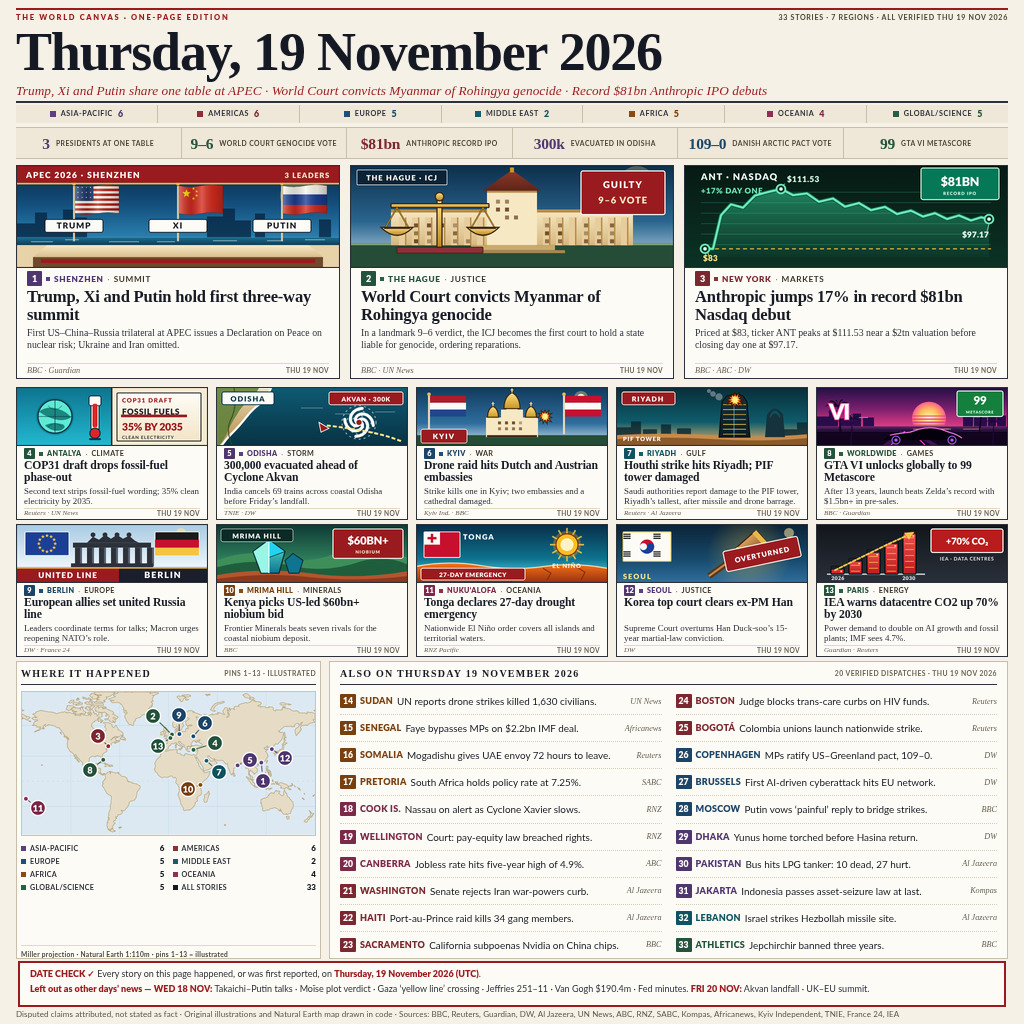
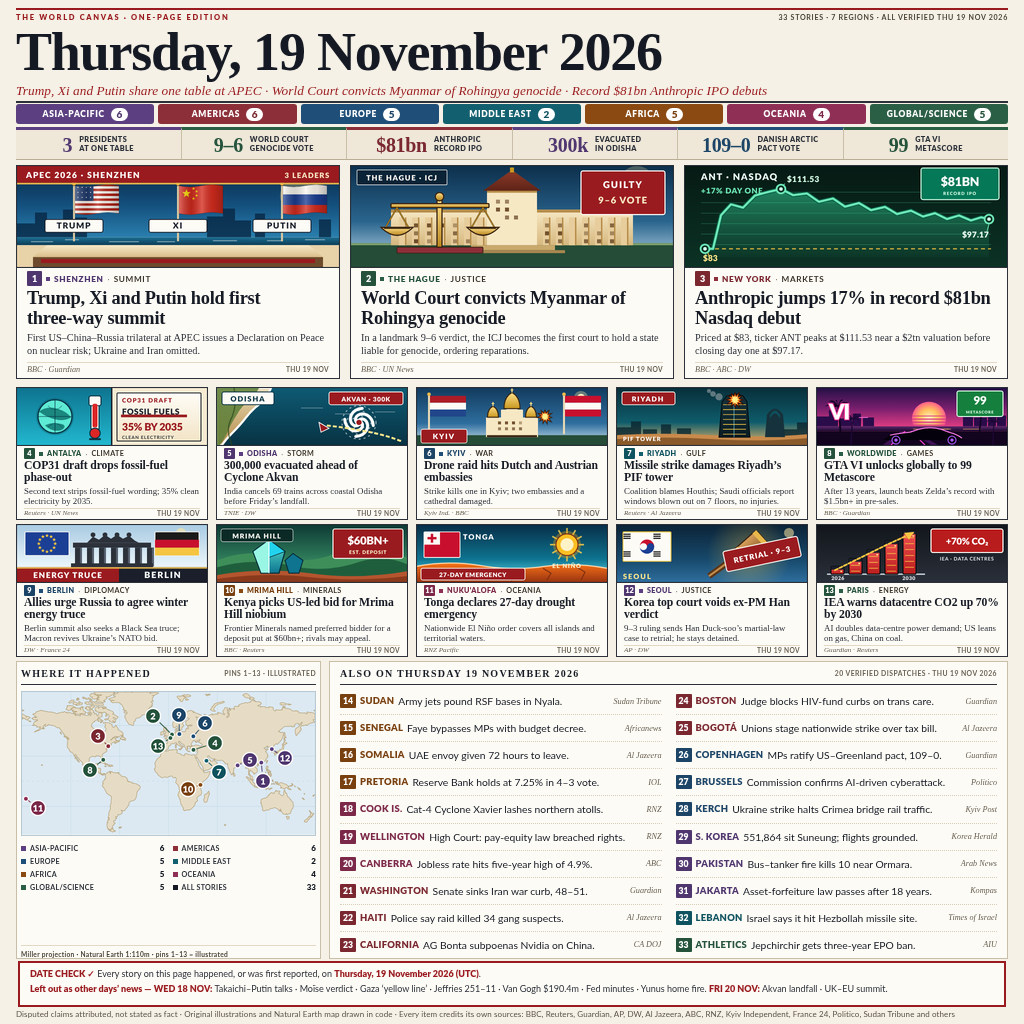
v11 (Opus 5.5): Fact/date audit (4 date leaks purged, Han retrial 9-3, Kerch/Suneung/Nyala added), solid 7-region pills, 20px serif stats, 18.4px lead headlines, 415KB 4:4:4 JPEG

diff --git a/build_poster.py b/build_poster.py
@@ -1,9 +1,9 @@
 #!/usr/bin/env python3
-"""Build the 1024x1024 visual broadsheet for Thursday 19 November 2026 (entry.png), v10.
+"""Build the 1024x1024 visual broadsheet for Thursday 19 November 2026 (entry.png), v11.
 
 A classic archival editorial broadsheet: warm cream newsprint, a giant Title-Case
-serif masthead, an italic crimson deck, a seven-region balance bar, a parchment
-Day-in-Numbers strip, thirteen bold high-contrast editorial graphics in three
+serif masthead, an italic crimson deck, a seven-pill colour-coded region bar, a
+bold Day-in-Numbers strip, thirteen bold high-contrast editorial graphics in three
 rows (3 + 5 + 5), a Natural Earth locator with numbered pins 1-13, and twenty
 numbered dispatches (14-33) as one crisp line each in two balanced columns. A
 crimson-boxed DATE CHECK names the Wednesday and Friday stories that were
@@ -31,15 +31,15 @@ from pathlib import Path
 ROOT = Path(__file__).resolve().parent
 ENTRY = ROOT / "entry.png"
 WORLD_PATH = ROOT / "world_land_110m.svgpath"
-HTML_PATH = Path("/tmp/world_news_canvas_v10.html")
-RAW_1X = Path("/tmp/world_news_canvas_v10_1x.png")
-RAW_2X = Path("/tmp/world_news_canvas_v10_2x.png")
-PREVIEW_300 = Path("/tmp/news_v10_300.png")
-PREVIEW_512 = Path("/tmp/news_v10_512.png")
+HTML_PATH = Path("/tmp/world_news_canvas_v11.html")
+RAW_1X = Path("/tmp/world_news_canvas_v11_1x.png")
+RAW_2X = Path("/tmp/world_news_canvas_v11_2x.png")
+PREVIEW_300 = Path("/tmp/news_v11_300.png")
+PREVIEW_512 = Path("/tmp/news_v11_512.png")
 CHROME = "/usr/bin/google-chrome"
 
-JPEG_QUALITIES = (92, 91, 90)
-JPEG_MAX = 450 * 1000
+JPEG_QUALITIES = (90, 89, 88, 87)
+JPEG_MAX = 420 * 1000
 HARD_LIMIT = 1048576
 
 SERIF = "Liberation Serif, DejaVu Serif, Georgia, serif"
@@ -550,13 +550,13 @@ def art_berlin():
     b += rect(0, 43, 102, 15, "#9A1B1F")
     b += rect(102, 43, 88, 15, "#1A1F2B")
     b += rect(0, 43, 190, 1.4, "#E8B84B")
-    b += t(51, 54, "UNITED LINE", 8.0, "#FFFFFF", 900, "middle", .9)
+    b += t(51, 54, "ENERGY TRUCE", 8.0, "#FFFFFF", 900, "middle", .9)
     b += t(146, 54, "BERLIN", 8.8, "#FFFFFF", 900, "middle", 1.1)
     return svg(W, H, b)
 
 
 def art_kenya():
-    """Mrima Hill: bold emerald/terracotta ridges, a crystal and a $60BN+ badge."""
+    """Mrima Hill: bold emerald/terracotta ridges, a crystal and a $60BN+ estimate badge."""
     W, H = 190, 58
     d = ("<defs>"
          + lingrad("knS", [("0", "#0F3B35", "1"), (".6", "#2F7D5B", "1"), ("1", "#E8B76B", "1")])
@@ -578,7 +578,7 @@ def art_kenya():
     b += t(40, 13.6, "MRIMA HILL", 6.8, "#FDFBF6", 900, "middle", .9)
     b += rect(116, 4, 70, 30, "#9A1B1F", 2, "#FDFBF6", 1.0)
     b += t(151, 20, "$60BN+", 11.2, "#FFFFFF", 900, "middle", -.2)
-    b += t(151, 29, "NIOBIUM", 4.4, "#F7E7C2", 900, "middle", .7)
+    b += t(151, 29.5, "EST. DEPOSIT", 5.0, "#F7E7C2", 900, "middle", .5)
     return svg(W, H, b)
 
 
@@ -615,7 +615,7 @@ def art_tonga():
 
 
 def art_seoul():
-    """Seoul: a bold Taegeukgi, a wooden gavel and an angled OVERTURNED stamp."""
+    """Seoul: a bold Taegeukgi, a wooden gavel and an angled RETRIAL 9-3 stamp."""
     W, H = 190, 58
     d = ("<defs>"
          + lingrad("seS", [("0", "#0C2438", "1"), (".6", "#17496B", "1"), ("1", "#2E6E9E", "1")])
@@ -644,7 +644,7 @@ def art_seoul():
     # angled stamp
     b += '<g transform="rotate(-12 145 29)">'
     b += rect(107, 19, 76, 21, "#9A1B1F", 2, "#FDFBF6", 1.0)
-    b += t(145, 32.8, "OVERTURNED", 7.2, "#FFFFFF", 900, "middle", .7)
+    b += t(145, 32.8, "RETRIAL &#183; 9&#8211;3", 7.6, "#FFFFFF", 900, "middle", .7)
     b += '</g>'
     b += t(6, 55, "SEOUL", 7.2, "#FDE68A", 900, "start", 1.2)
     return svg(W, H, b)
@@ -683,7 +683,7 @@ def art_paris():
 CARDS = [
     # row 1: three lead stories
     dict(n=1, reg="AP", place="SHENZHEN", beat="SUMMIT", art=art_apec, lon=114.06, lat=22.54, lead=True,
-         h="Trump, Xi and Putin hold first three-way summit",
+         h="Trump, Xi and Putin hold first <span style=\"white-space:nowrap\">three-way</span> summit",
          p="First US&#8211;China&#8211;Russia trilateral at APEC issues a Declaration on Peace on nuclear "
            "risk; Ukraine and Iran omitted.",
          src="BBC &#183; Guardian"),
@@ -711,68 +711,68 @@ CARDS = [
          p="Strike kills one in Kyiv; two embassies and a cathedral damaged.",
          src="Kyiv Ind. &#183; BBC"),
     dict(n=7, reg="ME", place="RIYADH", beat="GULF", art=art_riyadh, lon=46.68, lat=24.71,
-         h="Houthi strike hits Riyadh; PIF tower damaged",
-         p="Saudi authorities report damage to the PIF tower, Riyadh&#8217;s tallest, after missile and drone barrage.",
+         h="Missile strike damages Riyadh&#8217;s PIF tower",
+         p="Coalition blames Houthis; Saudi officials report windows blown out on 7 floors, no injuries.",
          src="Reuters &#183; Al Jazeera"),
     dict(n=8, reg="GL", place="WORLDWIDE", pin="MIAMI", beat="GAMES", art=art_gta, lon=-80.19, lat=25.76,
          h="GTA VI unlocks globally to 99 Metascore",
          p="After 13 years, launch beats Zelda&#8217;s record with $1.5bn+ in pre-sales.",
          src="BBC &#183; Guardian"),
     # row 3
-    dict(n=9, reg="EU", place="BERLIN", beat="EUROPE", art=art_berlin, lon=13.40, lat=52.52,
-         h="European allies set united Russia line",
-         p="Leaders coordinate terms for talks; Macron urges reopening NATO&#8217;s role.",
+    dict(n=9, reg="EU", place="BERLIN", beat="DIPLOMACY", art=art_berlin, lon=13.40, lat=52.52,
+         h="Allies urge Russia to agree winter energy truce",
+         p="Berlin summit also seeks a Black Sea truce; Macron revives Ukraine&#8217;s NATO bid.",
          src="DW &#183; France 24"),
     dict(n=10, reg="AF", place="MRIMA HILL", beat="MINERALS", art=art_kenya, lon=39.25, lat=-4.48,
-         h="Kenya picks US-led $60bn+ niobium bid",
-         p="Frontier Minerals beats seven rivals for the coastal niobium deposit.",
-         src="BBC"),
+         h="Kenya picks US-led bid for Mrima Hill niobium",
+         p="Frontier Minerals named preferred bidder for a deposit put at $60bn+; rivals may appeal.",
+         src="BBC &#183; Reuters"),
     dict(n=11, reg="OC", place="NUKU&#8216;ALOFA", beat="OCEANIA", art=art_tonga, lon=-175.20, lat=-21.14,
          h="Tonga declares 27-day drought emergency",
          p="Nationwide El Ni&#241;o order covers all islands and territorial waters.",
          src="RNZ Pacific"),
     dict(n=12, reg="AP", place="SEOUL", beat="JUSTICE", art=art_seoul, lon=126.98, lat=37.57,
-         h="Korea top court clears ex-PM Han",
-         p="Supreme Court overturns Han Duck-soo&#8217;s 15-year martial-law conviction.",
-         src="DW"),
+         h="Korea top court voids ex-PM Han verdict",
+         p="9&#8211;3 ruling sends Han Duck-soo&#8217;s martial-law case to retrial; he stays detained.",
+         src="AP &#183; DW"),
     dict(n=13, reg="GL", place="PARIS", beat="ENERGY", art=art_paris, lon=2.35, lat=48.86,
          h="IEA warns datacentre CO2 up 70% by 2030",
-         p="Power demand to double on AI growth and fossil plants; IMF sees 4.7%.",
+         p="AI doubles data-centre power demand; US leans on gas, China on coal.",
          src="Guardian &#183; Reuters"),
 ]
 
 DISPATCHES = [
     # 14-23, left column
-    ("AF", "SUDAN", "UN reports drone strikes killed 1,630 civilians.", "UN News"),
-    ("AF", "SENEGAL", "Faye bypasses MPs on $2.2bn IMF deal.", "Africanews"),
-    ("AF", "SOMALIA", "Mogadishu gives UAE envoy 72 hours to leave.", "Reuters"),
-    ("AF", "PRETORIA", "South Africa holds policy rate at 7.25%.", "SABC"),
-    ("OC", "COOK IS.", "Nassau on alert as Cyclone Xavier slows.", "RNZ"),
-    ("OC", "WELLINGTON", "Court: pay-equity law breached rights.", "RNZ"),
+    ("AF", "SUDAN", "Army jets pound RSF bases in Nyala.", "Sudan Tribune"),
+    ("AF", "SENEGAL", "Faye bypasses MPs with budget decree.", "Africanews"),
+    ("AF", "SOMALIA", "UAE envoy given 72 hours to leave.", "Al Jazeera"),
+    ("AF", "PRETORIA", "Reserve Bank holds at 7.25% in 4&#8211;3 vote.", "IOL"),
+    ("OC", "COOK IS.", "Cat-4 Cyclone Xavier lashes northern atolls.", "RNZ"),
+    ("OC", "WELLINGTON", "High Court: pay-equity law breached rights.", "RNZ"),
     ("OC", "CANBERRA", "Jobless rate hits five-year high of 4.9%.", "ABC"),
-    ("AM", "WASHINGTON", "Senate rejects Iran war-powers curb.", "Al Jazeera"),
-    ("AM", "HAITI", "Port-au-Prince raid kills 34 gang members.", "Al Jazeera"),
-    ("AM", "SACRAMENTO", "California subpoenas Nvidia on China chips.", "BBC"),
+    ("AM", "WASHINGTON", "Senate sinks Iran war curb, 48&#8211;51.", "Guardian"),
+    ("AM", "HAITI", "Police say raid killed 34 gang suspects.", "Al Jazeera"),
+    ("AM", "CALIFORNIA", "AG Bonta subpoenas Nvidia on China.", "CA DOJ"),
     # 24-33, right column
-    ("AM", "BOSTON", "Judge blocks trans-care curbs on HIV funds.", "Reuters"),
-    ("AM", "BOGOT&#193;", "Colombia unions launch nationwide strike.", "Reuters"),
-    ("EU", "COPENHAGEN", "MPs ratify US&#8211;Greenland pact, 109&#8211;0.", "DW"),
-    ("EU", "BRUSSELS", "First AI-driven cyberattack hits EU network.", "DW"),
-    ("EU", "MOSCOW", "Putin vows &#8216;painful&#8217; reply to bridge strikes.", "BBC"),
-    ("AP", "DHAKA", "Yunus home torched before Hasina return.", "DW"),
-    ("AP", "PAKISTAN", "Bus hits LPG tanker: 10 dead, 27 hurt.", "Al Jazeera"),
-    ("AP", "JAKARTA", "Indonesia passes asset-seizure law at last.", "Kompas"),
-    ("ME", "LEBANON", "Israel strikes Hezbollah missile site.", "Al Jazeera"),
-    ("GL", "ATHLETICS", "Jepchirchir banned three years.", "BBC"),
+    ("AM", "BOSTON", "Judge blocks HIV-fund curbs on trans care.", "Guardian"),
+    ("AM", "BOGOT&#193;", "Unions stage nationwide strike over tax bill.", "Al Jazeera"),
+    ("EU", "COPENHAGEN", "MPs ratify US&#8211;Greenland pact, 109&#8211;0.", "Guardian"),
+    ("EU", "BRUSSELS", "Commission confirms AI-driven cyberattack.", "Politico"),
+    ("EU", "KERCH", "Ukraine strike halts Crimea bridge rail traffic.", "Kyiv Post"),
+    ("AP", "S. KOREA", "551,864 sit Suneung; flights grounded.", "Korea Herald"),
+    ("AP", "PAKISTAN", "Bus&#8211;tanker fire kills 10 near Ormara.", "Arab News"),
+    ("AP", "JAKARTA", "Asset-forfeiture law passes after 18 years.", "Kompas"),
+    ("ME", "LEBANON", "Israel says it hit Hezbollah missile site.", "Times of Israel"),
+    ("GL", "ATHLETICS", "Jepchirchir gets three-year EPO ban.", "AIU"),
 ]
 
 NUMBERS = [
-    ("3", "presidents at one table", "AP"),
-    ("9&#8211;6", "World Court genocide vote", "GL"),
-    ("$81bn", "Anthropic record IPO", "AM"),
-    ("300k", "evacuated in Odisha", "AP"),
-    ("109&#8211;0", "Danish Arctic pact vote", "EU"),
-    ("99", "GTA VI Metascore", "GL"),
+    ("3", "presidents<br>at one table", "AP"),
+    ("9&#8211;6", "World Court<br>genocide vote", "GL"),
+    ("$81bn", "Anthropic<br>record IPO", "AM"),
+    ("300k", "evacuated<br>in Odisha", "AP"),
+    ("109&#8211;0", "Danish Arctic<br>pact vote", "EU"),
+    ("99", "GTA VI<br>Metascore", "GL"),
 ]
 
 DATE_CHECK_1 = (
@@ -781,14 +781,14 @@ DATE_CHECK_1 = (
 )
 DATE_CHECK_2 = (
     "<b>Left out as other days&#8217; news &#8212; WED 18 NOV:</b> Takaichi&#8211;Putin talks "
-    "&#183; Mo&#239;se plot verdict &#183; Gaza &#8216;yellow line&#8217; crossing &#183; "
-    "Jeffries 251&#8211;11 &#183; Van Gogh $190.4m &#183; Fed minutes. "
+    "&#183; Mo&#239;se verdict &#183; Gaza &#8216;yellow line&#8217; &#183; Jeffries 251&#8211;11 "
+    "&#183; Van Gogh $190.4m &#183; Fed minutes &#183; Yunus home fire. "
     "<b>FRI 20 NOV:</b> Akvan landfall &#183; UK&#8211;EU summit."
 )
 SOURCES = (
     "Disputed claims attributed, not stated as fact &#183; Original illustrations and Natural Earth "
-    "map drawn in code &#183; Sources: BBC, Reuters, Guardian, DW, Al Jazeera, UN News, ABC, RNZ, "
-    "SABC, Kompas, Africanews, Kyiv Independent, TNIE, France 24, IEA"
+    "map drawn in code &#183; Every item credits its own sources: BBC, Reuters, Guardian, AP, DW, "
+    "Al Jazeera, ABC, RNZ, Kyiv Independent, France 24, Politico, Sudan Tribune and others"
 )
 
 # map badge offsets (px in the 293-wide map) for the thirteen card pins
@@ -871,21 +871,21 @@ body{font-family:Lato,sans-serif;color:#141923;-webkit-font-smoothing:antialiase
  font-style:italic;font-weight:400;font-size:13.3px;line-height:16px;letter-spacing:.05px;color:#9A1B1F;
  white-space:nowrap;overflow:hidden;}
 .mastrule{position:absolute;left:16px;right:16px;top:101px;height:1.5px;background:#2C313A;}
-.regionbar{position:absolute;left:16px;right:16px;top:105px;height:18px;display:flex;background:#EFE8D8;}
-.seg{flex:1 1 0;height:18px;display:flex;align-items:center;justify-content:center;gap:5px;
- border-left:1px solid #C9BFA9;white-space:nowrap;overflow:hidden;}
-.seg:first-child{border-left:none;}
-.seg i{flex:none;width:6px;height:6px;background:var(--fill);}
-.seg .lab{font-weight:700;font-size:7.2px;letter-spacing:.55px;color:#2C313A;line-height:10px;}
-.seg .ct{font-weight:900;font-size:8.8px;color:var(--ink);line-height:10px;}
-.stats{position:absolute;left:16px;right:16px;top:127px;height:32px;display:flex;background:#EFE8D8;
- border-top:1px solid #C9BFA9;border-bottom:1px solid #C9BFA9;}
-.stats .cell{flex:1 1 0;display:flex;align-items:center;justify-content:center;gap:6px;white-space:nowrap;
- border-left:1px solid #C9BFA9;overflow:hidden;}
+.regionbar{position:absolute;left:16px;right:16px;top:104px;height:20px;display:flex;gap:4px;}
+.seg{flex:1 1 0;height:20px;display:flex;align-items:center;justify-content:center;gap:6px;
+ background:var(--fill);border-radius:3px;white-space:nowrap;overflow:hidden;}
+.seg .lab{font-weight:900;font-size:8.4px;letter-spacing:.7px;color:#FFFFFF;line-height:12px;}
+.seg .ct{font-weight:900;font-size:10px;color:var(--ink);background:#FFFFFF;border-radius:7px;
+ min-width:17px;padding:0 4px;text-align:center;line-height:13px;}
+.stats{position:absolute;left:16px;right:16px;top:127px;height:33px;display:flex;background:#EFE8D8;
+ border-bottom:1px solid #B9AE95;}
+.stats .cell{flex:1 1 0;display:flex;align-items:center;justify-content:center;gap:7px;white-space:nowrap;
+ border-left:1px solid #C9BFA9;border-top:3px solid var(--fill);overflow:hidden;}
 .stats .cell:first-child{border-left:none;}
-.stats .v{font-family:Liberation Serif,DejaVu Serif,Georgia,serif;font-weight:700;font-size:15.5px;
- color:var(--ink);line-height:17px;letter-spacing:-.2px;}
-.stats .k{font-weight:700;font-size:6.8px;letter-spacing:.45px;text-transform:uppercase;color:#4A4438;line-height:9px;}
+.stats .v{font-family:Liberation Serif,DejaVu Serif,Georgia,serif;font-weight:700;font-size:20px;
+ color:var(--ink);line-height:22px;letter-spacing:-.3px;}
+.stats .k{font-weight:900;font-size:7.3px;letter-spacing:.4px;text-transform:uppercase;color:#2C313A;
+ line-height:8.8px;white-space:nowrap;}
 .row{position:absolute;left:16px;width:992px;display:grid;}
 .r1{top:165px;height:214px;grid-template-columns:repeat(3,324px);column-gap:10px;}
 .r2{top:387px;height:133px;grid-template-columns:repeat(5,192px);column-gap:8px;}
@@ -916,12 +916,12 @@ body{font-family:Lato,sans-serif;color:#141923;-webkit-font-smoothing:antialiase
 .r2 .kick .sep,.r3 .kick .sep{font-size:7px;}
 .card h2{font-family:Liberation Serif,DejaVu Serif,Georgia,serif;font-weight:700;color:#141923;
  overflow:hidden;flex:none;}
-.r1 h2{font-size:16.6px;line-height:18.4px;height:36.8px;letter-spacing:-.2px;}
+.r1 h2{font-size:18.4px;line-height:19.6px;height:39.2px;letter-spacing:-.25px;margin-top:1px;}
 .r2 h2,.r3 h2{font-size:11.7px;line-height:12.4px;height:24.8px;letter-spacing:-.1px;}
 .card h2 sub{font-size:.7em;line-height:0;}
 .card p{font-family:Liberation Serif,DejaVu Serif,Georgia,serif;font-weight:400;color:#2C313A;
  overflow:hidden;flex:none;}
-.r1 p{margin-top:2px;font-size:9.8px;line-height:12.1px;height:36.3px;}
+.r1 p{margin-top:4px;font-size:10.3px;line-height:12.8px;height:25.6px;}
 .r2 p,.r3 p{margin-top:1px;font-size:8.9px;line-height:10.2px;height:20.4px;}
 .src{margin-top:auto;border-top:1px solid #E2D8C4;display:flex;justify-content:space-between;
  font-family:Liberation Serif,DejaVu Serif,Georgia,serif;font-style:italic;white-space:nowrap;
@@ -955,8 +955,8 @@ body{font-family:Lato,sans-serif;color:#141923;-webkit-font-smoothing:antialiase
 .dl:last-child{border-bottom:none;}
 .dl .nb{flex:none;width:16px;height:14px;line-height:14px;text-align:center;font-weight:900;
  font-size:8.6px;color:#FFFFFF;background:var(--ink);border-radius:1px;}
-.dl .pl{flex:none;font-weight:900;font-size:9.0px;letter-spacing:.25px;color:var(--ink);line-height:12px;}
-.dl .tx{flex:1 1 auto;min-width:0;font-weight:400;font-size:9.9px;line-height:12px;letter-spacing:.02px;
+.dl .pl{flex:none;font-weight:900;font-size:9.4px;letter-spacing:.25px;color:var(--ink);line-height:12px;}
+.dl .tx{flex:1 1 auto;min-width:0;font-weight:400;font-size:10.3px;line-height:12px;letter-spacing:0;
  color:#141923;white-space:nowrap;overflow:hidden;}
 .dl .so{flex:none;font-family:Liberation Serif,DejaVu Serif,Georgia,serif;font-style:italic;
  font-weight:400;font-size:8.2px;color:#6A6254;line-height:11px;}
@@ -1002,7 +1002,7 @@ def build_html():
     counts = region_counts()
     total = sum(counts.values())
     segs = "".join(
-        '<div class="seg" data-region="%s" data-count="%d" style="%s"><i></i>'
+        '<div class="seg" data-region="%s" data-count="%d" style="%s">'
         '<span class="lab">%s</span><span class="ct">%d</span></div>'
         % (k, counts[k], style_vars(k), REGIONS[k][0], counts[k]) for k in ORDER)
     nums = "".join(

diff --git a/README.md b/README.md
@@ -4,33 +4,33 @@
 [![rank](https://make.fun/badge/news-image-20261119/mevlanayalcin/world-news-canvas-20261119/rank.svg)](https://make.fun/bounty/news-image-20261119/leaderboard?utm_source=github&utm_medium=readme&utm_campaign=news-image-20261119)
 [![reward](https://make.fun/badge/news-image-20261119/mevlanayalcin/world-news-canvas-20261119/reward.svg)](https://make.fun/bounty/news-image-20261119?utm_source=github&utm_medium=readme&utm_campaign=news-image-20261119)
 
-A classic archival editorial broadsheet for **Thursday 19 November 2026**: **33 stories across 7 regions**, every one first reported on that day. The page is set on warm cream newsprint (`#F6F1E6`) with charcoal ink and deep crimson accents: a giant **Title-Case serif masthead**, an italic crimson deck, a seven-region balance bar, a parchment *Day in Numbers* strip, thirteen bold high-contrast editorial graphics, a Natural Earth locator and twenty numbered one-line briefs. No all-caps dashboard cards, no dark night-scene grid.
+A classic archival editorial broadsheet for **Thursday 19 November 2026**: **33 stories across 7 regions**, every one first reported on that day. The page is set on warm cream newsprint (`#F6F1E6`) with charcoal ink and deep crimson accents: a giant **Title-Case serif masthead**, an italic crimson deck, a bold seven-pill colour-coded region bar, a high-contrast *Day in Numbers* strip, thirteen bold high-contrast editorial graphics, a Natural Earth locator and twenty numbered one-line briefs. No all-caps dashboard cards, no dark night-scene grid.
 
-- **13 illustrated stories** in a 3 + 5 + 5 broadsheet grid, each an original inline SVG drawn in code. Every art box is now a single, instant-read editorial graphic with a strong focal object and a crisp, padded callout:
+- **13 illustrated stories** in a 3 + 5 + 5 broadsheet grid, each an original inline SVG drawn in code. The three lead cards carry 18.4px bold serif headlines over two-line 10.3px summaries. Every art box is now a single, instant-read editorial graphic with a strong focal object and a crisp, padded callout:
   1. **Shenzhen · Summit** — a bold APEC summit table under large US, Chinese and Russian flags, with `TRUMP`, `XI` and `PUTIN` podium tags and an `APEC 2026 · SHENZHEN` top bar.
   2. **The Hague · Justice** — crisp Peace Palace limestone, oversized golden scales and an unclipped crimson `GUILTY` / `9–6 VOTE` stamp.
   3. **New York · Markets** — a dark emerald trading terminal: `ANT · NASDAQ`, a thick rising chart with `$83`, `$111.53` and `$97.17` tags and an emerald `$81BN RECORD IPO` badge.
   4. **Antalya · Climate** — a bold split graphic: turquoise globe and thermometer on the left, cream COP31 draft on the right with struck-through `FOSSIL FUELS` and `35% BY 2035`.
   5. **Odisha · Storm** — a high-contrast teal coastal map with a thick white Akvan spiral, crimson track arrow and a clean `AKVAN · 300K` pill.
   6. **Kyiv · War** — gold cathedral domes, oversized Dutch and Austrian flags, an impact burst and a padded `KYIV` chip.
-  7. **Riyadh · Gulf** — a bold PIF Tower silhouette against a dusk-teal sky, bright impact burst and a `RIYADH` pill.
+  7. **Riyadh · Gulf** — a bold PIF Tower silhouette against a dusk-teal sky, bright impact burst and a `RIYADH` pill; the copy attributes the strike (the coalition blames the Houthis, Saudi officials report the damage, no injuries).
   8. **Worldwide · Games** — the single Vice-sunset card: magenta/orange sky, palms, a huge `VI` emblem and an emerald `99 METASCORE` badge.
-  9. **Berlin · Europe** — the Brandenburg Gate with a 12-star EU flag, German flag and a two-tone `UNITED LINE` / `BERLIN` banner.
-  10. **Mrima Hill · Minerals** — rich terracotta/emerald ridges, a bold mineral crystal and a high-contrast `$60BN+ NIOBIUM` badge.
+  9. **Berlin · Diplomacy** — the Brandenburg Gate with a 12-star EU flag, German flag and a two-tone `ENERGY TRUCE` / `BERLIN` banner for the coalition summit’s winter energy-ceasefire call.
+  10. **Mrima Hill · Minerals** — rich terracotta/emerald ridges, a bold mineral crystal and a high-contrast `$60BN+ EST. DEPOSIT` badge (the deposit estimate, not the bid).
   11. **Nuku‘alofa · Oceania** — a blazing amber El Niño sun, cracked coral coastline, Tongan flag and a `27-DAY EMERGENCY` pill.
-  12. **Seoul · Justice** — a crisp Taegeukgi, bold wooden gavel and an angled crimson `OVERTURNED` stamp on deep navy.
+  12. **Seoul · Justice** — a crisp Taegeukgi, bold wooden gavel and an angled crimson `RETRIAL · 9–3` stamp on deep navy: the Supreme Court voided Han Duck-soo’s insurrection verdict and sent the case back, he stays detained.
   13. **Paris · Energy** — a red-on-charcoal server-rack energy chart rising `2026 → 2030`, with a cleanly padded `+70% CO₂` badge.
 - **Region balance**: Asia-Pacific 6 · Americas 6 · Europe 5 · Middle East 2 · Africa 5 · Oceania 4 · Global/Science 5 = **33** exactly, matching the 13 cards plus 20 dispatches.
-- **Two-column numbered briefs (14–33)**: ten per column, each a single **9.9px Lato** line with a numbered region badge, bold place, one concrete verified fact and an italic source. The tightest measured slack is **22px**, so nothing wraps, clips or truncates. The four v10 replacements are hard-dated Thursday stories: Australia’s 4.9% jobless rate, Colombia’s nationwide union strike, Indonesia’s asset-seizure law and South Africa’s 7.25% policy hold.
+- **Two-column numbered briefs (14–33)**: ten per column, each a single **10.3px Lato** line with a numbered region badge, bold 9.4px place, one concrete verified fact and an italic source. The tightest measured slack is **17px**, so nothing wraps, clips or truncates. v11 re-checked every item against Thursday reporting and swapped out four that were not clean Thursday news: the UN Sudan drone tally (published Tue 17) became the army’s Nyala air raids; the Yunus home fire (late Wed 18, in Chattogram, not Dhaka) became South Korea’s 551,864-candidate Suneung; the Moscow-datelined Putin vow became the Kerch bridge rail strike itself; and the EU cyberattack now reads as the Commission’s Thursday confirmation of an October intrusion. Claims that rest on one party are attributed (“Police say…”, “Israel says…”), and vote tallies are added where they exist (48–51, 4–3).
 - **World locator**: a Natural Earth 1:110m coastline (stored offline in `world_land_110m.svgpath`) on pale archival ocean with warm tan continents, numbered pins 1–13 and short leader lines for the crowded European pins. A compact seven-region legend sits below the map.
-- **Header**: a crimson kicker strip (`THE WORLD CANVAS · ONE-PAGE EDITION`), a 54px Title-Case `Thursday, 19 November 2026` masthead, an italic crimson summary deck, the region balance bar and six parchment stats (`3`, `9–6`, `$81bn`, `300k`, `109–0`, `99`).
-- **Footer**: a prominent full-width `DATE CHECK ✓` callout with a 2px crimson border and exactly two crisp lines, naming only the Wednesday 18 and Friday 20 stories left out on purpose (Takaichi–Putin talks, Moïse verdict, Gaza ‘yellow line’, Jeffries 251–11, Van Gogh $190.4m, Fed minutes; Akvan landfall, UK–EU summit), followed by a one-line attribution/sources micro-footer.
+- **Header**: a crimson kicker strip (`THE WORLD CANVAS · ONE-PAGE EDITION`), a 54px Title-Case `Thursday, 19 November 2026` masthead, an italic crimson summary deck, a seven-pill region bar (solid region colours, white 8.4px labels, white count chips, so it still reads as a colour band at 300px) and six stats in 20px serif with a 3px region-colour cap and two-line 7.3px labels (`3`, `9–6`, `$81bn`, `300k`, `109–0`, `99`).
+- **Footer**: a prominent full-width `DATE CHECK ✓` callout with a 2px crimson border and exactly two crisp lines, naming only the Wednesday 18 and Friday 20 stories left out on purpose (Takaichi–Putin talks, Moïse verdict, Gaza ‘yellow line’, Jeffries 251–11, Van Gogh $190.4m, Fed minutes, Yunus home fire; Akvan landfall, UK–EU summit), followed by a one-line attribution/sources micro-footer.
 
 `build_poster.py` renders the page in headless Chromium at 1× and 2× DPR and runs the DOM geometry audit in the same pass. The audit enforces an exact 1024×1024 page, a **33/33** story census, **13** map badges, exact per-region sums against the balance bar, zero overflow, zero overlaps, zero clipped text, every card headline at most two lines, every summary at most two lines, one-line briefs with **≥15px** slack, SVG ink inside every viewBox, at least 1px of padding for every coloured badge label, and an ink-contrast floor. The build fails on any issue.
 
-Text is taken from the native 1× render (edge variance **6785.9** against 6163.1 for the Lanczos-downsampled 2× on the brief columns). The 2× Lanczos pixels are pasted into all **fourteen** integer-aligned boxes (13 story illustrations plus the map), which keeps flags, spirals, skylines and charts smooth while the body text stays pin-sharp. The page is encoded as a 4:4:4 baseline JPEG at quality 91: **434,746 bytes (424.6 KiB)**, well under the 1 MiB gate.
+Text is taken from the native 1× render (edge variance **6961.6** against 6398.1 for the Lanczos-downsampled 2× on the brief columns). The 2× Lanczos pixels are pasted into all **fourteen** integer-aligned boxes (13 story illustrations plus the map), which keeps flags, spirals, skylines and charts smooth while the body text stays pin-sharp. The page is encoded as a 4:4:4 baseline JPEG at the highest quality that fits 420 KB, quality 89: **415,137 bytes (405.4 KiB)**, well under the 1 MiB gate.
 
-`entry.png` is that JPEG. `main.py` uses only the standard library and no network: it re-validates every JPEG segment up to the EOI marker and atomically copies the verified bytes to `MAKEFUN_OUTPUT_DIR`. Two runs are byte-identical, and two full builds are byte-identical too (sha256 `71657f83…`).
+`entry.png` is that JPEG. `main.py` uses only the standard library and no network: it re-validates every JPEG segment up to the EOI marker and atomically copies the verified bytes to `MAKEFUN_OUTPUT_DIR`. Two runs are byte-identical, and two full builds are byte-identical too (sha256 `52604402…`).
 
 ## Run it
 
